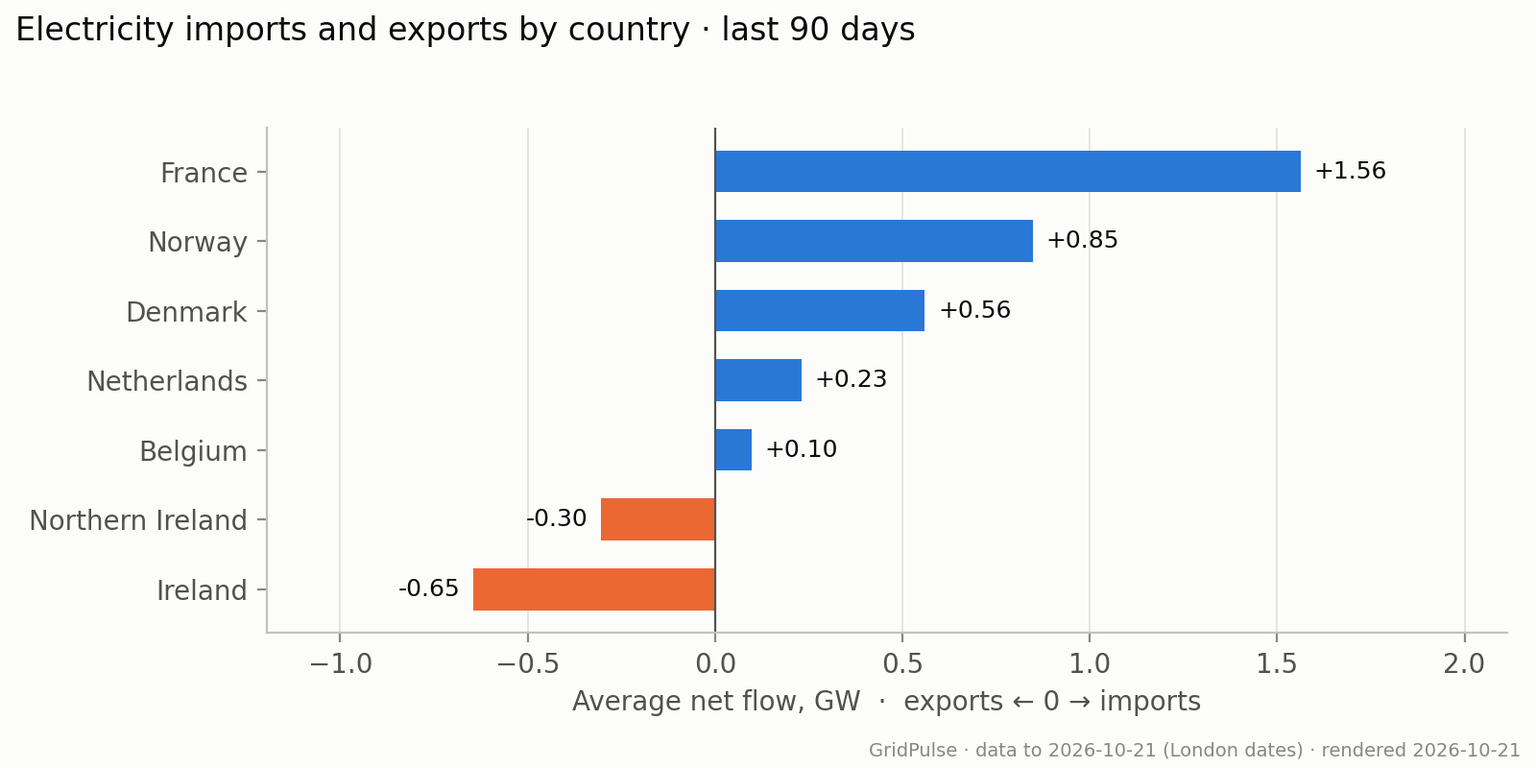
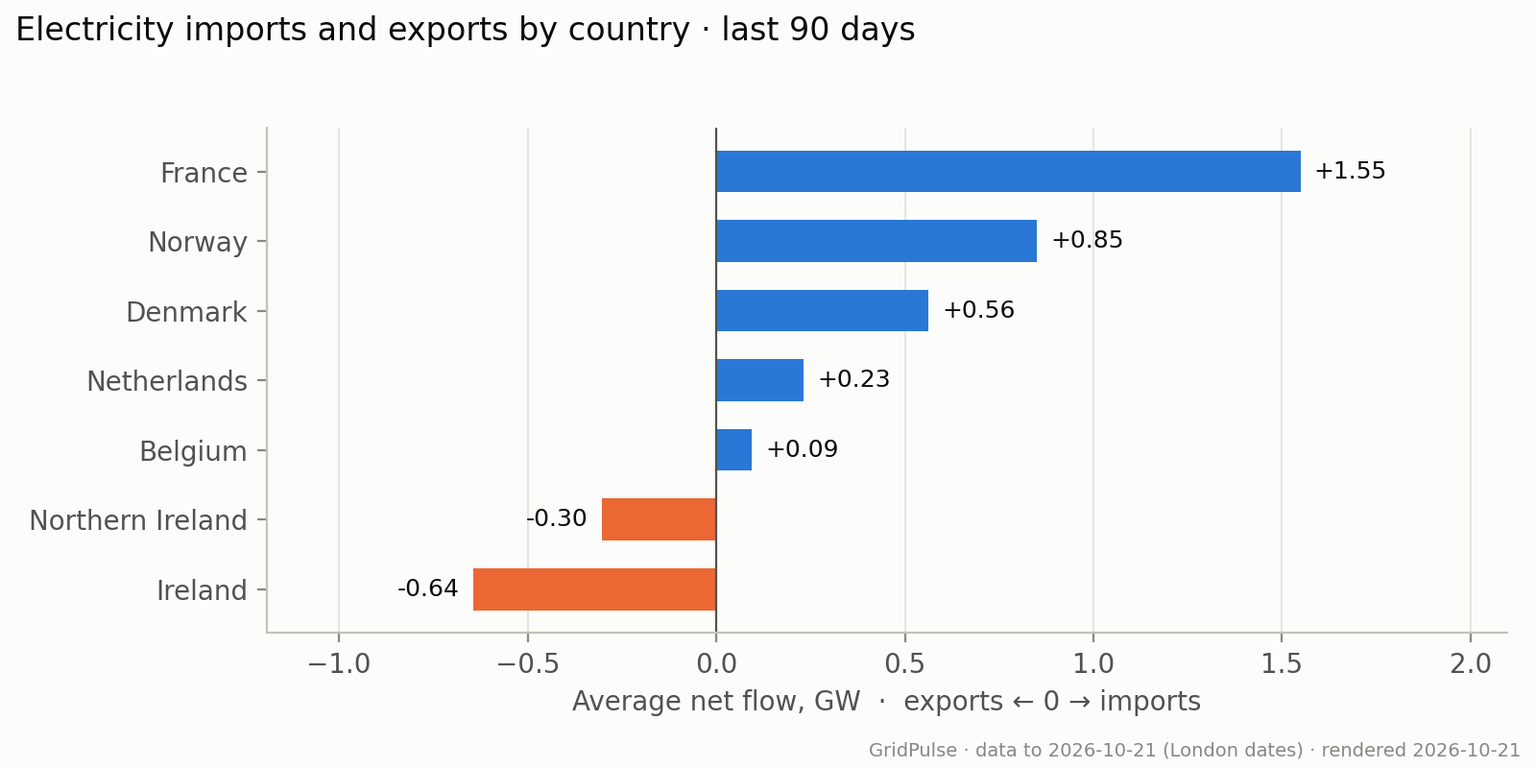
Rebuild from data to 2026-10-21, built 2026-10-21 14:50 UTC

diff --git a/index.html b/index.html
@@ -68,12 +68,12 @@ how electricity flows across borders, and how accurately demand is forecast.</p>
 <div><a href="#prices"><strong>Prices and grid conditions</strong></a><ul><li><a href="#negative_frequency">Negative Wholesale Price Frequency</a></li><li><a href="#negative_conditions">Grid Conditions During Negative Prices</a></li><li><a href="#imbalance_spread">Imbalance and Wholesale Price Gap</a></li><li><a href="#imbalance_conditions">Imbalance Prices by Grid Conditions</a></li></ul></div>
 <div><a href="#forecast-accuracy"><strong>Forecast accuracy</strong></a><ul><li><a href="#demand_accuracy">Average Demand Forecast Error by Hours Ahead</a></li><li><a href="#carbon_accuracy">Carbon Forecast Error by Month</a></li></ul></div>
 <div><a href="#data-quality"><strong>Data quality</strong></a><ul><li><a href="#coverage">Monthly Data Coverage</a></li><li><a href="#publication_coverage">Demand Forecast Publication Coverage</a></li></ul></div></nav></details>
-<p class="banner" id="built" data-built="2026-10-21T02:50:16Z" data-ingested="2026-10-21T02:00:28Z">
-Analysis built 2026-10-21 02:50 UTC. Each chart uses its stated window;
+<p class="banner" id="built" data-built="2026-10-21T14:50:18Z" data-ingested="2026-10-21T14:00:35Z">
+Analysis built 2026-10-21 14:50 UTC. Each chart uses its stated window;
 current-month results are provisional. Scheduled refresh: every 6 hours.</p>
 <details class="provenance"><summary>Data dates and source code</summary>
 <p class="meta">National carbon actuals: data to 2026-10-21 (London dates).
-Most recent ingestion across sources: 2026-10-21 02:00 UTC.
+Most recent ingestion across sources: 2026-10-21 14:00 UTC.
 These timestamps do not establish completeness or freshness for every source.
 “As of” refers to the build date. Select a chart to view it full size.</p>
 <a href="https://github.com/thrkld/gridpulse">Python, SQL and dbt project on GitHub</a></details>
@@ -128,14 +128,14 @@ These timestamps do not establish completeness or freshness for every source.
 <p>Each bar shows net electricity imports through cross-border electricity links, as a percentage of Great Britain&#x27;s national demand for that month. Exports are subtracted from imports.</p>
 <div class="finding">
 <h4>Findings (as of 21 October 2026)</h4>
-<p>Net cross-border flow was equivalent to 5.5% of national demand in October 2026. The monthly ratio ranged from 5.4% to 20.0% across the latest 12 months with data.</p>
+<p>Net cross-border flow was equivalent to 5.6% of national demand in October 2026. The monthly ratio ranged from 5.4% to 20.0% across the latest 12 months with data.</p>
 </div>
 <a href="charts/imports.png" aria-label="View full-size chart: Net Imports Relative to National Demand"><img src="charts/imports.png" alt="Net Imports Relative to National Demand"></a>
 <p class="meta"><a href="charts/imports.png">Open full-size chart</a></p>
 <h4>Limitations</h4>
 <p class="caveat">Only half hours with all ten links reporting and positive settled demand are included. The Scotland–England boundary is excluded. Incomplete coverage may affect comparisons, especially for the current month.</p>
 <details><summary>How to read this graph and methodology</summary><p>The calculation sums the net flow across all ten cross-border links for each eligible half hour, then divides the monthly sum by demand summed over those same periods. It is a ratio of totals, rather than an average of half-hourly percentages. A value of 10% means net imports were equivalent to one tenth of national demand in the matched sample. Bars above zero indicate net imports; bars below zero indicate net exports. History starts in January 2024, and a light-blue bar identifies the current, incomplete month.</p></details>
-<details><summary>Numbers behind the chart</summary><div class="table-scroll" tabindex="0" role="region" aria-label="Data for Net Imports Relative to National Demand"><table><thead><tr><th>Month</th><th>Net imports / demand %</th><th>Mean net imports MW</th><th>Matched periods</th></tr></thead><tbody><tr><td>2024-01-01</td><td>8.06</td><td>2,562</td><td>1488</td></tr><tr><td>2024-02-01</td><td>15.01</td><td>4,432</td><td>1392</td></tr><tr><td>2024-03-01</td><td>19.32</td><td>5,391</td><td>1486</td></tr><tr><td>2024-04-01</td><td>13.29</td><td>3,350</td><td>1440</td></tr><tr><td>2024-05-01</td><td>20.57</td><td>4,757</td><td>1488</td></tr><tr><td>2024-06-01</td><td>20.41</td><td>4,511</td><td>1440</td></tr><tr><td>2024-07-01</td><td>20.62</td><td>4,707</td><td>1488</td></tr><tr><td>2024-08-01</td><td>12.1</td><td>2,625</td><td>1488</td></tr><tr><td>2024-09-01</td><td>15.22</td><td>3,700</td><td>1440</td></tr><tr><td>2024-10-01</td><td>12.64</td><td>3,375</td><td>1490</td></tr><tr><td>2024-11-01</td><td>11.05</td><td>3,381</td><td>1440</td></tr><tr><td>2024-12-01</td><td>9.21</td><td>2,741</td><td>1488</td></tr><tr><td>2025-01-01</td><td>10.27</td><td>3,419</td><td>1488</td></tr><tr><td>2025-02-01</td><td>8.82</td><td>2,795</td><td>1344</td></tr><tr><td>2025-03-01</td><td>16.57</td><td>4,551</td><td>1486</td></tr><tr><td>2025-04-01</td><td>17.99</td><td>4,246</td><td>1440</td></tr><tr><td>2025-05-01</td><td>14.65</td><td>3,180</td><td>1488</td></tr><tr><td>2025-06-01</td><td>11.81</td><td>2,581</td><td>1440</td></tr><tr><td>2025-07-01</td><td>18.21</td><td>4,126</td><td>1488</td></tr><tr><td>2025-08-01</td><td>16.98</td><td>3,703</td><td>1488</td></tr><tr><td>2025-09-01</td><td>12.05</td><td>2,847</td><td>1440</td></tr><tr><td>2025-10-01</td><td>10.61</td><td>2,817</td><td>1490</td></tr><tr><td>2025-11-01</td><td>6.67</td><td>1,988</td><td>1440</td></tr><tr><td>2025-12-01</td><td>11.78</td><td>3,561</td><td>1488</td></tr><tr><td>2026-01-01</td><td>7.38</td><td>2,428</td><td>1488</td></tr><tr><td>2026-02-01</td><td>6.44</td><td>2,006</td><td>1344</td></tr><tr><td>2026-03-01</td><td>14.46</td><td>3,985</td><td>1486</td></tr><tr><td>2026-04-01</td><td>12.21</td><td>2,868</td><td>1440</td></tr><tr><td>2026-05-01</td><td>19.08</td><td>4,315</td><td>1488</td></tr><tr><td>2026-06-01</td><td>14.09</td><td>3,162</td><td>1440</td></tr><tr><td>2026-07-01</td><td>20.01</td><td>4,372</td><td>1488</td></tr><tr><td>2026-08-01</td><td>15.24</td><td>3,365</td><td>1488</td></tr><tr><td>2026-09-01</td><td>5.43</td><td>1,269</td><td>1440</td></tr><tr><td>2026-10-01</td><td>5.55</td><td>1,381</td><td>927</td></tr></tbody></table></div></details>
+<details><summary>Numbers behind the chart</summary><div class="table-scroll" tabindex="0" role="region" aria-label="Data for Net Imports Relative to National Demand"><table><thead><tr><th>Month</th><th>Net imports / demand %</th><th>Mean net imports MW</th><th>Matched periods</th></tr></thead><tbody><tr><td>2024-01-01</td><td>8.06</td><td>2,562</td><td>1488</td></tr><tr><td>2024-02-01</td><td>15.01</td><td>4,432</td><td>1392</td></tr><tr><td>2024-03-01</td><td>19.32</td><td>5,391</td><td>1486</td></tr><tr><td>2024-04-01</td><td>13.29</td><td>3,350</td><td>1440</td></tr><tr><td>2024-05-01</td><td>20.57</td><td>4,757</td><td>1488</td></tr><tr><td>2024-06-01</td><td>20.41</td><td>4,511</td><td>1440</td></tr><tr><td>2024-07-01</td><td>20.62</td><td>4,707</td><td>1488</td></tr><tr><td>2024-08-01</td><td>12.1</td><td>2,625</td><td>1488</td></tr><tr><td>2024-09-01</td><td>15.22</td><td>3,700</td><td>1440</td></tr><tr><td>2024-10-01</td><td>12.64</td><td>3,375</td><td>1490</td></tr><tr><td>2024-11-01</td><td>11.05</td><td>3,381</td><td>1440</td></tr><tr><td>2024-12-01</td><td>9.21</td><td>2,741</td><td>1488</td></tr><tr><td>2025-01-01</td><td>10.27</td><td>3,419</td><td>1488</td></tr><tr><td>2025-02-01</td><td>8.82</td><td>2,795</td><td>1344</td></tr><tr><td>2025-03-01</td><td>16.57</td><td>4,551</td><td>1486</td></tr><tr><td>2025-04-01</td><td>17.99</td><td>4,246</td><td>1440</td></tr><tr><td>2025-05-01</td><td>14.65</td><td>3,180</td><td>1488</td></tr><tr><td>2025-06-01</td><td>11.81</td><td>2,581</td><td>1440</td></tr><tr><td>2025-07-01</td><td>18.21</td><td>4,126</td><td>1488</td></tr><tr><td>2025-08-01</td><td>16.98</td><td>3,703</td><td>1488</td></tr><tr><td>2025-09-01</td><td>12.05</td><td>2,847</td><td>1440</td></tr><tr><td>2025-10-01</td><td>10.61</td><td>2,817</td><td>1490</td></tr><tr><td>2025-11-01</td><td>6.67</td><td>1,988</td><td>1440</td></tr><tr><td>2025-12-01</td><td>11.78</td><td>3,561</td><td>1488</td></tr><tr><td>2026-01-01</td><td>7.38</td><td>2,428</td><td>1488</td></tr><tr><td>2026-02-01</td><td>6.44</td><td>2,006</td><td>1344</td></tr><tr><td>2026-03-01</td><td>14.46</td><td>3,985</td><td>1486</td></tr><tr><td>2026-04-01</td><td>12.21</td><td>2,868</td><td>1440</td></tr><tr><td>2026-05-01</td><td>19.08</td><td>4,315</td><td>1488</td></tr><tr><td>2026-06-01</td><td>14.09</td><td>3,162</td><td>1440</td></tr><tr><td>2026-07-01</td><td>20.01</td><td>4,372</td><td>1488</td></tr><tr><td>2026-08-01</td><td>15.24</td><td>3,365</td><td>1488</td></tr><tr><td>2026-09-01</td><td>5.43</td><td>1,269</td><td>1440</td></tr><tr><td>2026-10-01</td><td>5.57</td><td>1,401</td><td>958</td></tr></tbody></table></div></details>
 </section>
 <section class="chart" id="country_flows">
 <h3 class="chart-title">Electricity Imports and Exports by Country</h3>
@@ -143,14 +143,14 @@ These timestamps do not establish completeness or freshness for every source.
 <p>Each horizontal bar shows average net electricity flow between Great Britain and one neighbouring country over the last 90 completed days. Blue bars to the right mean imports into GB; orange bars to the left mean exports.</p>
 <div class="finding">
 <h4>Findings (as of 21 October 2026)</h4>
-<p>Across 4,287 matched half hours in the last 90 completed days, GB was a net importer at 2.35 GW on average. Country values combine all links to each destination.</p>
+<p>Across 4,318 matched half hours in the last 90 completed days, GB was a net importer at 2.34 GW on average. Country values combine all links to each destination.</p>
 </div>
 <a href="charts/country_flows.png" aria-label="View full-size chart: Electricity Imports and Exports by Country"><img src="charts/country_flows.png" alt="Electricity Imports and Exports by Country"></a>
 <p class="meta"><a href="charts/country_flows.png">Open full-size chart</a></p>
 <h4>Limitations</h4>
 <p class="caveat">Net averages conceal changes in direction within the window. Only periods with all ten cross-border links reporting are included; this does not measure each country&#x27;s contribution to electricity consumed in GB.</p>
 <details><summary>How to read this graph and methodology</summary><p>For each eligible half hour, flows on links to the same country are added together before averaging. Values are in gigawatts (1 GW = 1,000 MW). All countries use the same half hours. The internal Scotland–England boundary is excluded. Positive and negative flows cancel when calculating net flow, so a small bar can still represent substantial trading in both directions.</p></details>
-<details><summary>Numbers behind the chart</summary><div class="table-scroll" tabindex="0" role="region" aria-label="Data for Electricity Imports and Exports by Country"><table><thead><tr><th>Country</th><th>Average net flow MW</th><th>Matched periods</th></tr></thead><tbody><tr><td>France</td><td>1,562</td><td>4287</td></tr><tr><td>Norway</td><td>847</td><td>4287</td></tr><tr><td>Denmark</td><td>559</td><td>4287</td></tr><tr><td>Netherlands</td><td>230</td><td>4287</td></tr><tr><td>Belgium</td><td>97</td><td>4287</td></tr><tr><td>Northern Ireland</td><td>-304</td><td>4287</td></tr><tr><td>Ireland</td><td>-645</td><td>4287</td></tr></tbody></table></div></details>
+<details><summary>Numbers behind the chart</summary><div class="table-scroll" tabindex="0" role="region" aria-label="Data for Electricity Imports and Exports by Country"><table><thead><tr><th>Country</th><th>Average net flow MW</th><th>Matched periods</th></tr></thead><tbody><tr><td>France</td><td>1,549</td><td>4318</td></tr><tr><td>Norway</td><td>851</td><td>4318</td></tr><tr><td>Denmark</td><td>563</td><td>4318</td></tr><tr><td>Netherlands</td><td>232</td><td>4318</td></tr><tr><td>Belgium</td><td>94</td><td>4318</td></tr><tr><td>Northern Ireland</td><td>-304</td><td>4318</td></tr><tr><td>Ireland</td><td>-644</td><td>4318</td></tr></tbody></table></div></details>
 </section>
 <section class="chart" id="nations">
 <h3 class="chart-title">Forecast Carbon Intensity and Mix by Nation</h3>
@@ -188,14 +188,14 @@ These timestamps do not establish completeness or freshness for every source.
 <p>Three panels compare average national demand, renewable generation share and carbon intensity during negative versus non-negative wholesale prices. Orange bars represent negative prices; blue bars include zero and positive prices.</p>
 <div class="finding">
 <h4>Findings (as of 21 October 2026)</h4>
-<p>Renewables averaged 67.1% of generation during 1,325 negative-price half hours, versus 38.2% during 47,712 non-negative-price half hours. Average carbon intensity was 48.7 versus 127.7 gCO₂/kWh.</p>
+<p>Renewables averaged 67.1% of generation during 1,325 negative-price half hours, versus 38.2% during 47,743 non-negative-price half hours. Average carbon intensity was 48.7 versus 127.7 gCO₂/kWh.</p>
 </div>
 <a href="charts/negative_conditions.png" aria-label="View full-size chart: Grid Conditions During Negative Prices"><img src="charts/negative_conditions.png" alt="Grid Conditions During Negative Prices"></a>
 <p class="meta"><a href="charts/negative_conditions.png">Open full-size chart</a></p>
 <h4>Limitations</h4>
 <p class="caveat">These are associations, not causal effects. The groups differ in size, season and time of day. Their sample is smaller than the negative-price frequency chart because every displayed measurement must be available.</p>
 <details><summary>How to read this graph and methodology</summary><p>Each group uses half hours since January 2024 with wholesale price, positive settled demand, wind, solar, total renewable share and observed carbon intensity available. Renewables means wind, solar and hydro. The panels use different units and independent vertical scales: compare bars within each panel, not heights across panels. Wind and solar shares and sample counts are available in the data table. Today is excluded.</p></details>
-<details><summary>Numbers behind the chart</summary><div class="table-scroll" tabindex="0" role="region" aria-label="Data for Grid Conditions During Negative Prices"><table><thead><tr><th>Period type</th><th>Matched periods</th><th>Demand MW</th><th>Wind %</th><th>Solar %</th><th>Renewable %</th><th>Carbon intensity gCO2/kWh</th></tr></thead><tbody><tr><td>Negative price</td><td>1325</td><td>18,548</td><td>51</td><td>15.7</td><td>67.1</td><td>48.7</td></tr><tr><td>Non-negative price</td><td>47712</td><td>26,142</td><td>31.3</td><td>5.9</td><td>38.2</td><td>127.7</td></tr></tbody></table></div></details>
+<details><summary>Numbers behind the chart</summary><div class="table-scroll" tabindex="0" role="region" aria-label="Data for Grid Conditions During Negative Prices"><table><thead><tr><th>Period type</th><th>Matched periods</th><th>Demand MW</th><th>Wind %</th><th>Solar %</th><th>Renewable %</th><th>Carbon intensity gCO2/kWh</th></tr></thead><tbody><tr><td>Negative price</td><td>1325</td><td>18,548</td><td>51</td><td>15.7</td><td>67.1</td><td>48.7</td></tr><tr><td>Non-negative price</td><td>47743</td><td>26,147</td><td>31.3</td><td>5.9</td><td>38.2</td><td>127.7</td></tr></tbody></table></div></details>
 </section>
 <section class="chart" id="imbalance_spread">
 <h3 class="chart-title">Imbalance and Wholesale Price Gap</h3>
@@ -225,7 +225,7 @@ These timestamps do not establish completeness or freshness for every source.
 <h4>Limitations</h4>
 <p class="caveat">Averages in small groups are unstable and sensitive to extreme prices. Demand and renewable share alone cannot explain price formation; season, fuel prices and system constraints also vary.</p>
 <details><summary>How to read this graph and methodology</summary><p>Rows are 5 GW demand bands; columns are 20-percentage-point renewable bands. Lower bounds are included and upper bounds excluded, except the final renewable band includes 100%. Renewables comprises wind, solar and hydro. Red means a positive average price; blue means a negative average, with stronger colour indicating a larger magnitude. Every eligible half hour since January 2024 needs positive settled demand, a renewable share from 0% to 100% and an imbalance price. The colour scale and headline only compare groups with at least 100 observations, a descriptive filter rather than a statistical significance test. All other observed averages remain labelled in striped cells and listed in the data table. Today is excluded.</p></details>
-<details><summary>Numbers behind the chart</summary><div class="table-scroll" tabindex="0" role="region" aria-label="Data for Imbalance Prices by Grid Conditions"><table><thead><tr><th>Demand bin lower bound GW</th><th>Renewable bin lower bound %</th><th>Mean imbalance price GBP/MWh</th><th>Matched periods</th></tr></thead><tbody><tr><td>10</td><td>40</td><td>60.34</td><td>45</td></tr><tr><td>10</td><td>60</td><td>-7.07</td><td>119</td></tr><tr><td>15</td><td>0</td><td>85.6</td><td>710</td></tr><tr><td>15</td><td>20</td><td>81.71</td><td>2030</td></tr><tr><td>15</td><td>40</td><td>57.62</td><td>2731</td></tr><tr><td>15</td><td>60</td><td>10.78</td><td>1965</td></tr><tr><td>15</td><td>80</td><td>13.92</td><td>7</td></tr><tr><td>20</td><td>0</td><td>93.46</td><td>2153</td></tr><tr><td>20</td><td>20</td><td>91.96</td><td>6174</td></tr><tr><td>20</td><td>40</td><td>80.02</td><td>6373</td></tr><tr><td>20</td><td>60</td><td>34.16</td><td>2698</td></tr><tr><td>25</td><td>0</td><td>107.18</td><td>1981</td></tr><tr><td>25</td><td>20</td><td>101.07</td><td>5673</td></tr><tr><td>25</td><td>40</td><td>89.14</td><td>3928</td></tr><tr><td>25</td><td>60</td><td>56.67</td><td>1181</td></tr><tr><td>30</td><td>0</td><td>115.53</td><td>1165</td></tr><tr><td>30</td><td>20</td><td>96.45</td><td>2443</td></tr><tr><td>30</td><td>40</td><td>86.8</td><td>2326</td></tr><tr><td>30</td><td>60</td><td>69.13</td><td>355</td></tr><tr><td>35</td><td>0</td><td>126.58</td><td>826</td></tr><tr><td>35</td><td>20</td><td>98.59</td><td>1944</td></tr><tr><td>35</td><td>40</td><td>90.36</td><td>1228</td></tr><tr><td>35</td><td>60</td><td>91.03</td><td>5</td></tr><tr><td>40</td><td>0</td><td>199.64</td><td>307</td></tr><tr><td>40</td><td>20</td><td>114.72</td><td>582</td></tr><tr><td>40</td><td>40</td><td>104.88</td><td>97</td></tr><tr><td>45</td><td>0</td><td>1,967</td><td>6</td></tr><tr><td>45</td><td>20</td><td>183.04</td><td>18</td></tr></tbody></table></div></details>
+<details><summary>Numbers behind the chart</summary><div class="table-scroll" tabindex="0" role="region" aria-label="Data for Imbalance Prices by Grid Conditions"><table><thead><tr><th>Demand bin lower bound GW</th><th>Renewable bin lower bound %</th><th>Mean imbalance price GBP/MWh</th><th>Matched periods</th></tr></thead><tbody><tr><td>10</td><td>40</td><td>60.34</td><td>45</td></tr><tr><td>10</td><td>60</td><td>-7.07</td><td>119</td></tr><tr><td>15</td><td>0</td><td>85.6</td><td>710</td></tr><tr><td>15</td><td>20</td><td>81.71</td><td>2030</td></tr><tr><td>15</td><td>40</td><td>57.62</td><td>2731</td></tr><tr><td>15</td><td>60</td><td>10.78</td><td>1965</td></tr><tr><td>15</td><td>80</td><td>13.92</td><td>7</td></tr><tr><td>20</td><td>0</td><td>93.46</td><td>2153</td></tr><tr><td>20</td><td>20</td><td>91.96</td><td>6174</td></tr><tr><td>20</td><td>40</td><td>80.02</td><td>6373</td></tr><tr><td>20</td><td>60</td><td>34.16</td><td>2698</td></tr><tr><td>25</td><td>0</td><td>107.18</td><td>1981</td></tr><tr><td>25</td><td>20</td><td>101.07</td><td>5673</td></tr><tr><td>25</td><td>40</td><td>89.19</td><td>3932</td></tr><tr><td>25</td><td>60</td><td>56.67</td><td>1181</td></tr><tr><td>30</td><td>0</td><td>115.53</td><td>1165</td></tr><tr><td>30</td><td>20</td><td>96.66</td><td>2448</td></tr><tr><td>30</td><td>40</td><td>87.12</td><td>2342</td></tr><tr><td>30</td><td>60</td><td>69.13</td><td>355</td></tr><tr><td>35</td><td>0</td><td>126.58</td><td>826</td></tr><tr><td>35</td><td>20</td><td>98.91</td><td>1950</td></tr><tr><td>35</td><td>40</td><td>90.36</td><td>1228</td></tr><tr><td>35</td><td>60</td><td>91.03</td><td>5</td></tr><tr><td>40</td><td>0</td><td>199.64</td><td>307</td></tr><tr><td>40</td><td>20</td><td>114.72</td><td>582</td></tr><tr><td>40</td><td>40</td><td>104.88</td><td>97</td></tr><tr><td>45</td><td>0</td><td>1,967</td><td>6</td></tr><tr><td>45</td><td>20</td><td>183.04</td><td>18</td></tr></tbody></table></div></details>
 </section>
 <h2 class="topic-heading" id="forecast-accuracy">Forecast accuracy</h2><section class="chart" id="demand_accuracy">
 <h3 class="chart-title">Average Demand Forecast Error by Hours Ahead</h3>
@@ -263,14 +263,14 @@ These timestamps do not establish completeness or freshness for every source.
 <p>The heatmap shows what percentage of expected half hours have each measurement. Darker cells mean more complete coverage; pale cells reveal missing data. The first row checks whether a row exists in the combined analysis dataset.</p>
 <div class="finding">
 <h4>Findings (as of 21 October 2026)</h4>
-<p>In October 2026, neso settled demand had the lowest coverage of the displayed measures at 96.6% of 960 expected half hours through yesterday. Availability does not guarantee accuracy or a complete matched sample.</p>
+<p>In October 2026, neso settled demand had the lowest coverage of the displayed measures at 99.8% of 960 expected half hours through yesterday. Availability does not guarantee accuracy or a complete matched sample.</p>
 </div>
 <a href="charts/coverage.png" aria-label="View full-size chart: Monthly Data Coverage"><img src="charts/coverage.png" alt="Monthly Data Coverage"></a>
 <p class="meta"><a href="charts/coverage.png">Open full-size chart</a></p>
 <h4>Limitations</h4>
 <p class="caveat">A present value may still be incorrect or later revised. High coverage of individual fields does not guarantee that all fields needed for a particular analysis are available together.</p>
 <details><summary>How to read this graph and methodology</summary><p>Expected periods come from the calendar table since January 2024, through yesterday, accounting for clock changes. Each cell divides the count with data by the expected count for its month. Carbon forecast pairs require both forecast and observed intensity. NESO settled demand additionally requires positive demand. Elexon demand observations are the national demand outturn used in the forecast evaluation. Coverage is separate from the counts of matched periods beneath the analytical charts.</p></details>
-<details><summary>Numbers behind the chart</summary><div class="table-scroll" tabindex="0" role="region" aria-label="Data for Monthly Data Coverage"><table><thead><tr><th>Month</th><th>Expected periods</th><th>Mart periods</th><th>Carbon actual periods</th><th>Carbon forecast pairs</th><th>Market price periods</th><th>Imbalance price periods</th><th>Settled NESO periods</th><th>INDO periods</th><th>Generation mix periods</th><th>Latest priced period UTC</th><th>Latest settled demand UTC</th></tr></thead><tbody><tr><td>2026-10-01</td><td>960</td><td>960</td><td>960</td><td>960</td><td>960</td><td>960</td><td>927</td><td>960</td><td>960</td><td>2026-10-20</td><td>2026-10-20</td></tr><tr><td>2026-09-01</td><td>1440</td><td>1440</td><td>1440</td><td>1440</td><td>1436</td><td>1440</td><td>1440</td><td>1440</td><td>1440</td><td>2026-09-30</td><td>2026-09-30</td></tr><tr><td>2026-08-01</td><td>1488</td><td>1488</td><td>1488</td><td>1488</td><td>1488</td><td>1488</td><td>1488</td><td>1488</td><td>1488</td><td>2026-08-31</td><td>2026-08-31</td></tr><tr><td>2026-07-01</td><td>1488</td><td>1488</td><td>1488</td><td>1488</td><td>1482</td><td>1488</td><td>1488</td><td>1488</td><td>1488</td><td>2026-07-31</td><td>2026-07-31</td></tr><tr><td>2026-06-01</td><td>1440</td><td>1440</td><td>1440</td><td>1440</td><td>1440</td><td>1440</td><td>1440</td><td>1440</td><td>1440</td><td>2026-06-30</td><td>2026-06-30</td></tr><tr><td>2026-05-01</td><td>1488</td><td>1488</td><td>1488</td><td>1488</td><td>1486</td><td>1488</td><td>1488</td><td>1488</td><td>1488</td><td>2026-05-31</td><td>2026-05-31</td></tr><tr><td>2026-04-01</td><td>1440</td><td>1440</td><td>1440</td><td>1440</td><td>1440</td><td>1440</td><td>1440</td><td>1440</td><td>1440</td><td>2026-04-30</td><td>2026-04-30</td></tr><tr><td>2026-03-01</td><td>1486</td><td>1486</td><td>1486</td><td>1486</td><td>1486</td><td>1486</td><td>1486</td><td>1486</td><td>1486</td><td>2026-03-31</td><td>2026-03-31</td></tr><tr><td>2026-02-01</td><td>1344</td><td>1344</td><td>1344</td><td>1344</td><td>1344</td><td>1344</td><td>1344</td><td>1344</td><td>1344</td><td>2026-02-28</td><td>2026-02-28</td></tr><tr><td>2026-01-01</td><td>1488</td><td>1488</td><td>1488</td><td>1488</td><td>1488</td><td>1488</td><td>1488</td><td>1488</td><td>1488</td><td>2026-01-31</td><td>2026-01-31</td></tr><tr><td>2025-12-01</td><td>1488</td><td>1488</td><td>1488</td><td>1488</td><td>1488</td><td>1488</td><td>1488</td><td>1488</td><td>1488</td><td>2025-12-31</td><td>2025-12-31</td></tr><tr><td>2025-11-01</td><td>1440</td><td>1440</td><td>1440</td><td>1440</td><td>1440</td><td>1440</td><td>1440</td><td>1440</td><td>1440</td><td>2025-11-30</td><td>2025-11-30</td></tr><tr><td>2025-10-01</td><td>1490</td><td>1490</td><td>1490</td><td>1490</td><td>1490</td><td>1490</td><td>1490</td><td>1490</td><td>1490</td><td>2025-10-31</td><td>2025-10-31</td></tr><tr><td>2025-09-01</td><td>1440</td><td>1440</td><td>1440</td><td>1440</td><td>1439</td><td>1440</td><td>1440</td><td>1440</td><td>1440</td><td>2025-09-30</td><td>2025-09-30</td></tr><tr><td>2025-08-01</td><td>1488</td><td>1488</td><td>1488</td><td>1471</td><td>1488</td><td>1488</td><td>1488</td><td>1488</td><td>1480</td><td>2025-08-31</td><td>2025-08-31</td></tr><tr><td>2025-07-01</td><td>1488</td><td>1488</td><td>1488</td><td>1488</td><td>1488</td><td>1488</td><td>1488</td><td>1488</td><td>1488</td><td>2025-07-31</td><td>2025-07-31</td></tr><tr><td>2025-06-01</td><td>1440</td><td>1440</td><td>1440</td><td>1440</td><td>1430</td><td>1440</td><td>1440</td><td>1440</td><td>1440</td><td>2025-06-30</td><td>2025-06-30</td></tr><tr><td>2025-05-01</td><td>1488</td><td>1488</td><td>1488</td><td>1488</td><td>1488</td><td>1488</td><td>1488</td><td>1488</td><td>1488</td><td>2025-05-31</td><td>2025-05-31</td></tr><tr><td>2025-04-01</td><td>1440</td><td>1440</td><td>1440</td><td>1440</td><td>1440</td><td>1440</td><td>1440</td><td>1440</td><td>1440</td><td>2025-04-30</td><td>2025-04-30</td></tr><tr><td>2025-03-01</td><td>1486</td><td>1486</td><td>1486</td><td>1486</td><td>1486</td><td>1486</td><td>1486</td><td>1486</td><td>1486</td><td>2025-03-31</td><td>2025-03-31</td></tr><tr><td>2025-02-01</td><td>1344</td><td>1344</td><td>1344</td><td>1344</td><td>1344</td><td>1344</td><td>1344</td><td>1344</td><td>1344</td><td>2025-02-28</td><td>2025-02-28</td></tr><tr><td>2025-01-01</td><td>1488</td><td>1488</td><td>1488</td><td>1462</td><td>1488</td><td>1488</td><td>1488</td><td>1488</td><td>1471</td><td>2025-01-31</td><td>2025-01-31</td></tr><tr><td>2024-12-01</td><td>1488</td><td>1488</td><td>1488</td><td>1488</td><td>1488</td><td>1488</td><td>1488</td><td>1488</td><td>1488</td><td>2024-12-31</td><td>2024-12-31</td></tr><tr><td>2024-11-01</td><td>1440</td><td>1440</td><td>1440</td><td>1440</td><td>1440</td><td>1440</td><td>1440</td><td>1440</td><td>1440</td><td>2024-11-30</td><td>2024-11-30</td></tr><tr><td>2024-10-01</td><td>1490</td><td>1490</td><td>1490</td><td>1490</td><td>1490</td><td>1490</td><td>1490</td><td>1490</td><td>1490</td><td>2024-10-31</td><td>2024-10-31</td></tr><tr><td>2024-09-01</td><td>1440</td><td>1440</td><td>1440</td><td>1440</td><td>1440</td><td>1440</td><td>1440</td><td>1440</td><td>1440</td><td>2024-09-30</td><td>2024-09-30</td></tr><tr><td>2024-08-01</td><td>1488</td><td>1488</td><td>1488</td><td>1488</td><td>1488</td><td>1488</td><td>1488</td><td>1488</td><td>1488</td><td>2024-08-31</td><td>2024-08-31</td></tr><tr><td>2024-07-01</td><td>1488</td><td>1488</td><td>1488</td><td>1488</td><td>1488</td><td>1488</td><td>1488</td><td>1488</td><td>1488</td><td>2024-07-31</td><td>2024-07-31</td></tr><tr><td>2024-06-01</td><td>1440</td><td>1440</td><td>1409</td><td>1409</td><td>1440</td><td>1440</td><td>1440</td><td>1440</td><td>1418</td><td>2024-06-30</td><td>2024-06-30</td></tr><tr><td>2024-05-01</td><td>1488</td><td>1488</td><td>1488</td><td>1488</td><td>1488</td><td>1488</td><td>1488</td><td>1488</td><td>1488</td><td>2024-05-31</td><td>2024-05-31</td></tr><tr><td>2024-04-01</td><td>1440</td><td>1440</td><td>1440</td><td>1440</td><td>1439</td><td>1440</td><td>1440</td><td>1440</td><td>1440</td><td>2024-04-30</td><td>2024-04-30</td></tr><tr><td>2024-03-01</td><td>1486</td><td>1486</td><td>1486</td><td>1486</td><td>1486</td><td>1486</td><td>1486</td><td>1486</td><td>1486</td><td>2024-03-31</td><td>2024-03-31</td></tr><tr><td>2024-02-01</td><td>1392</td><td>1392</td><td>1392</td><td>1392</td><td>1392</td><td>1392</td><td>1392</td><td>1392</td><td>1392</td><td>2024-02-29</td><td>2024-02-29</td></tr><tr><td>2024-01-01</td><td>1488</td><td>1488</td><td>1488</td><td>1488</td><td>1488</td><td>1488</td><td>1488</td><td>1488</td><td>1488</td><td>2024-01-31</td><td>2024-01-31</td></tr></tbody></table></div></details>
+<details><summary>Numbers behind the chart</summary><div class="table-scroll" tabindex="0" role="region" aria-label="Data for Monthly Data Coverage"><table><thead><tr><th>Month</th><th>Expected periods</th><th>Mart periods</th><th>Carbon actual periods</th><th>Carbon forecast pairs</th><th>Market price periods</th><th>Imbalance price periods</th><th>Settled NESO periods</th><th>INDO periods</th><th>Generation mix periods</th><th>Latest priced period UTC</th><th>Latest settled demand UTC</th></tr></thead><tbody><tr><td>2026-10-01</td><td>960</td><td>960</td><td>960</td><td>960</td><td>960</td><td>960</td><td>958</td><td>960</td><td>960</td><td>2026-10-20</td><td>2026-10-20</td></tr><tr><td>2026-09-01</td><td>1440</td><td>1440</td><td>1440</td><td>1440</td><td>1436</td><td>1440</td><td>1440</td><td>1440</td><td>1440</td><td>2026-09-30</td><td>2026-09-30</td></tr><tr><td>2026-08-01</td><td>1488</td><td>1488</td><td>1488</td><td>1488</td><td>1488</td><td>1488</td><td>1488</td><td>1488</td><td>1488</td><td>2026-08-31</td><td>2026-08-31</td></tr><tr><td>2026-07-01</td><td>1488</td><td>1488</td><td>1488</td><td>1488</td><td>1482</td><td>1488</td><td>1488</td><td>1488</td><td>1488</td><td>2026-07-31</td><td>2026-07-31</td></tr><tr><td>2026-06-01</td><td>1440</td><td>1440</td><td>1440</td><td>1440</td><td>1440</td><td>1440</td><td>1440</td><td>1440</td><td>1440</td><td>2026-06-30</td><td>2026-06-30</td></tr><tr><td>2026-05-01</td><td>1488</td><td>1488</td><td>1488</td><td>1488</td><td>1486</td><td>1488</td><td>1488</td><td>1488</td><td>1488</td><td>2026-05-31</td><td>2026-05-31</td></tr><tr><td>2026-04-01</td><td>1440</td><td>1440</td><td>1440</td><td>1440</td><td>1440</td><td>1440</td><td>1440</td><td>1440</td><td>1440</td><td>2026-04-30</td><td>2026-04-30</td></tr><tr><td>2026-03-01</td><td>1486</td><td>1486</td><td>1486</td><td>1486</td><td>1486</td><td>1486</td><td>1486</td><td>1486</td><td>1486</td><td>2026-03-31</td><td>2026-03-31</td></tr><tr><td>2026-02-01</td><td>1344</td><td>1344</td><td>1344</td><td>1344</td><td>1344</td><td>1344</td><td>1344</td><td>1344</td><td>1344</td><td>2026-02-28</td><td>2026-02-28</td></tr><tr><td>2026-01-01</td><td>1488</td><td>1488</td><td>1488</td><td>1488</td><td>1488</td><td>1488</td><td>1488</td><td>1488</td><td>1488</td><td>2026-01-31</td><td>2026-01-31</td></tr><tr><td>2025-12-01</td><td>1488</td><td>1488</td><td>1488</td><td>1488</td><td>1488</td><td>1488</td><td>1488</td><td>1488</td><td>1488</td><td>2025-12-31</td><td>2025-12-31</td></tr><tr><td>2025-11-01</td><td>1440</td><td>1440</td><td>1440</td><td>1440</td><td>1440</td><td>1440</td><td>1440</td><td>1440</td><td>1440</td><td>2025-11-30</td><td>2025-11-30</td></tr><tr><td>2025-10-01</td><td>1490</td><td>1490</td><td>1490</td><td>1490</td><td>1490</td><td>1490</td><td>1490</td><td>1490</td><td>1490</td><td>2025-10-31</td><td>2025-10-31</td></tr><tr><td>2025-09-01</td><td>1440</td><td>1440</td><td>1440</td><td>1440</td><td>1439</td><td>1440</td><td>1440</td><td>1440</td><td>1440</td><td>2025-09-30</td><td>2025-09-30</td></tr><tr><td>2025-08-01</td><td>1488</td><td>1488</td><td>1488</td><td>1471</td><td>1488</td><td>1488</td><td>1488</td><td>1488</td><td>1480</td><td>2025-08-31</td><td>2025-08-31</td></tr><tr><td>2025-07-01</td><td>1488</td><td>1488</td><td>1488</td><td>1488</td><td>1488</td><td>1488</td><td>1488</td><td>1488</td><td>1488</td><td>2025-07-31</td><td>2025-07-31</td></tr><tr><td>2025-06-01</td><td>1440</td><td>1440</td><td>1440</td><td>1440</td><td>1430</td><td>1440</td><td>1440</td><td>1440</td><td>1440</td><td>2025-06-30</td><td>2025-06-30</td></tr><tr><td>2025-05-01</td><td>1488</td><td>1488</td><td>1488</td><td>1488</td><td>1488</td><td>1488</td><td>1488</td><td>1488</td><td>1488</td><td>2025-05-31</td><td>2025-05-31</td></tr><tr><td>2025-04-01</td><td>1440</td><td>1440</td><td>1440</td><td>1440</td><td>1440</td><td>1440</td><td>1440</td><td>1440</td><td>1440</td><td>2025-04-30</td><td>2025-04-30</td></tr><tr><td>2025-03-01</td><td>1486</td><td>1486</td><td>1486</td><td>1486</td><td>1486</td><td>1486</td><td>1486</td><td>1486</td><td>1486</td><td>2025-03-31</td><td>2025-03-31</td></tr><tr><td>2025-02-01</td><td>1344</td><td>1344</td><td>1344</td><td>1344</td><td>1344</td><td>1344</td><td>1344</td><td>1344</td><td>1344</td><td>2025-02-28</td><td>2025-02-28</td></tr><tr><td>2025-01-01</td><td>1488</td><td>1488</td><td>1488</td><td>1462</td><td>1488</td><td>1488</td><td>1488</td><td>1488</td><td>1471</td><td>2025-01-31</td><td>2025-01-31</td></tr><tr><td>2024-12-01</td><td>1488</td><td>1488</td><td>1488</td><td>1488</td><td>1488</td><td>1488</td><td>1488</td><td>1488</td><td>1488</td><td>2024-12-31</td><td>2024-12-31</td></tr><tr><td>2024-11-01</td><td>1440</td><td>1440</td><td>1440</td><td>1440</td><td>1440</td><td>1440</td><td>1440</td><td>1440</td><td>1440</td><td>2024-11-30</td><td>2024-11-30</td></tr><tr><td>2024-10-01</td><td>1490</td><td>1490</td><td>1490</td><td>1490</td><td>1490</td><td>1490</td><td>1490</td><td>1490</td><td>1490</td><td>2024-10-31</td><td>2024-10-31</td></tr><tr><td>2024-09-01</td><td>1440</td><td>1440</td><td>1440</td><td>1440</td><td>1440</td><td>1440</td><td>1440</td><td>1440</td><td>1440</td><td>2024-09-30</td><td>2024-09-30</td></tr><tr><td>2024-08-01</td><td>1488</td><td>1488</td><td>1488</td><td>1488</td><td>1488</td><td>1488</td><td>1488</td><td>1488</td><td>1488</td><td>2024-08-31</td><td>2024-08-31</td></tr><tr><td>2024-07-01</td><td>1488</td><td>1488</td><td>1488</td><td>1488</td><td>1488</td><td>1488</td><td>1488</td><td>1488</td><td>1488</td><td>2024-07-31</td><td>2024-07-31</td></tr><tr><td>2024-06-01</td><td>1440</td><td>1440</td><td>1409</td><td>1409</td><td>1440</td><td>1440</td><td>1440</td><td>1440</td><td>1418</td><td>2024-06-30</td><td>2024-06-30</td></tr><tr><td>2024-05-01</td><td>1488</td><td>1488</td><td>1488</td><td>1488</td><td>1488</td><td>1488</td><td>1488</td><td>1488</td><td>1488</td><td>2024-05-31</td><td>2024-05-31</td></tr><tr><td>2024-04-01</td><td>1440</td><td>1440</td><td>1440</td><td>1440</td><td>1439</td><td>1440</td><td>1440</td><td>1440</td><td>1440</td><td>2024-04-30</td><td>2024-04-30</td></tr><tr><td>2024-03-01</td><td>1486</td><td>1486</td><td>1486</td><td>1486</td><td>1486</td><td>1486</td><td>1486</td><td>1486</td><td>1486</td><td>2024-03-31</td><td>2024-03-31</td></tr><tr><td>2024-02-01</td><td>1392</td><td>1392</td><td>1392</td><td>1392</td><td>1392</td><td>1392</td><td>1392</td><td>1392</td><td>1392</td><td>2024-02-29</td><td>2024-02-29</td></tr><tr><td>2024-01-01</td><td>1488</td><td>1488</td><td>1488</td><td>1488</td><td>1488</td><td>1488</td><td>1488</td><td>1488</td><td>1488</td><td>2024-01-31</td><td>2024-01-31</td></tr></tbody></table></div></details>
 </section>
 <section class="chart" id="publication_coverage">
 <h3 class="chart-title">Demand Forecast Publication Coverage</h3>
